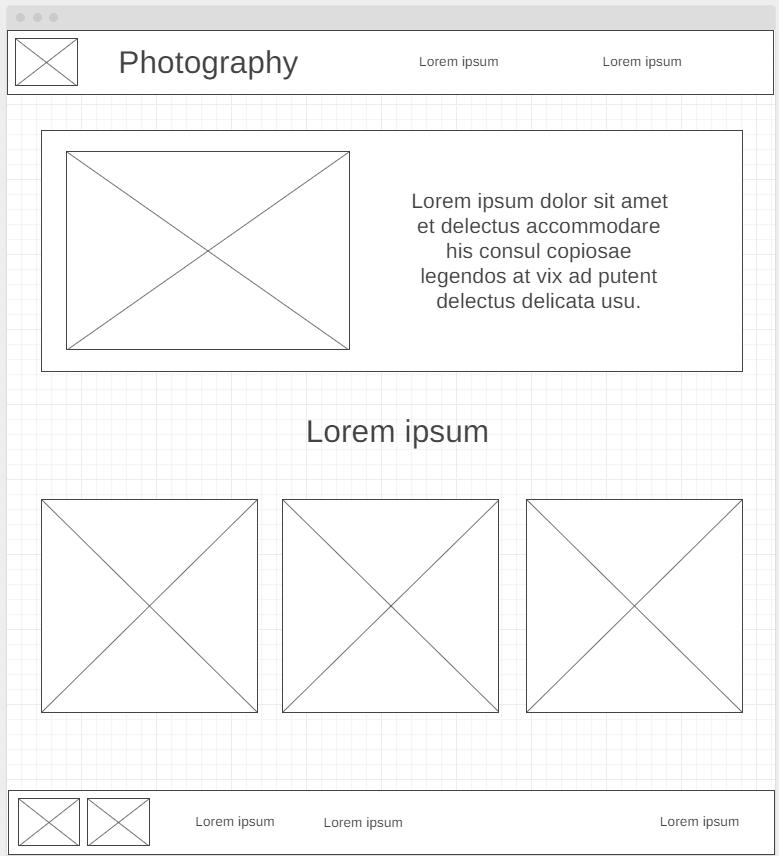
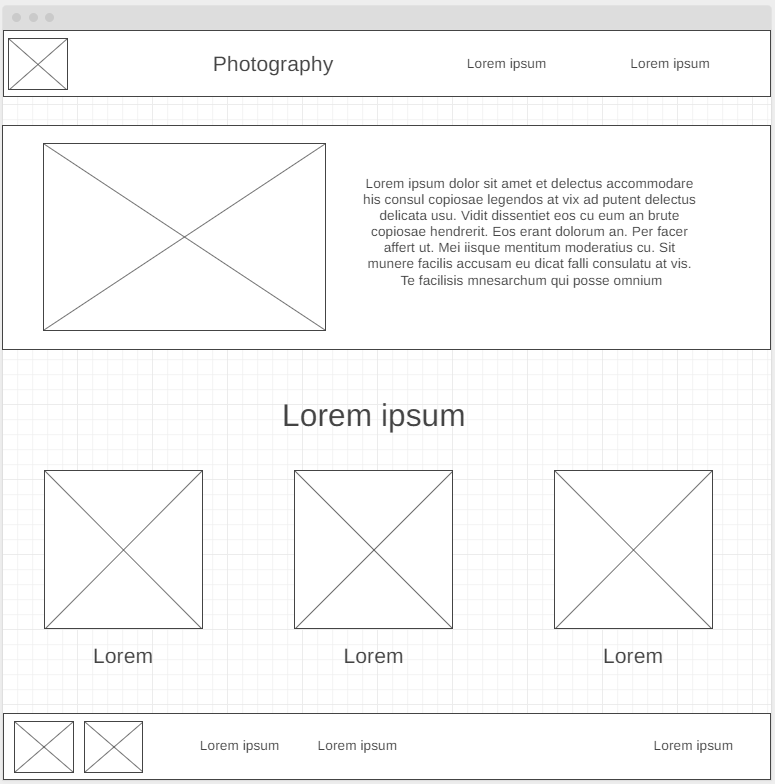
Added

diff --git a/portfolio/photography.html b/portfolio/photography.html
@@ -5,12 +5,17 @@
     <meta name="viewport" content="width=device-width, initial-scale=1.0">
     <title>A.L.B.'s Portfolio | Photography</title>
     <link type="text/css" rel="stylesheet" href="styles/style.css">
+    <style>
+        body {
+            background-color: #117387;
+        }
+    </style>
 </head>
 <body>
     <div id="content">
-        <header>
+        <header> 
             <a id="logo_link" href="index.html">
-             <img class="logo" src="images/logo_pic.png" alt="Logo">
+             <img id="PhotoImg" class="logo" src="images/logo_pic.png" alt="Logo">
             </a>
             <nav>
                 <p>Photography</p>
@@ -21,7 +26,8 @@
 
         <div class="hero-photo">
             <div class="hero-photo-image">
-                <img src="images/photo_one.jpg" alt="Photo One Image">
+                <!-- Trigger the Modal -->
+                <img id="PhotoImg" src="images/photo_one.jpg" alt="Photo One Image">
             </div>
             <div class="hero-photo-text">
                 <p>"Photography, to me, is catching a moment which is passing, and which is 
@@ -39,28 +45,44 @@
 
         <main class="photos-grid">
             <section class="photo-two-card">
-                <img class="card-img" src="images/photo_two.jpg" width="270" height="250" alt="Photo Two Image">
+                <!-- Trigger the Modal -->
+                <img id="PhotoImg" class="card-img" src="images/photo_two.jpg" width="270" height="250" alt="Photo Two Image">
                 <h2>Capture One</h2>
             </section>
 
             <section class="photo-three-card">
-                <img class="card-img" src="images/photo_three.jpg" width="270" height="250" alt="Phto Three Image">
+                <!-- Trigger the Modal -->
+                <img id="PhotoImg" class="card-img" src="images/photo_three.jpg" width="270" height="250" alt="Phto Three Image">
                 <h2>Capture Two</h2>
             </section>
 
             <section class="photo-four-card">
-                <img class="card-img" src="images/photo_four.jpg" width="270" height="250" alt="Photo Four Image">
+                <!-- Trigger the Modal -->
+                <img id="PhotoImg" class="card-img" src="images/photo_four.jpg" width="270" height="250" alt="Photo Four Image">
                 <h2>Capture Three</h2>
             </section>
         </main>
 
+        <!-- The Modal -->
+        <div id="myModal" class="modal">
+
+            <!-- The Close Button -->
+            <span class="close">&times;</span>
+
+            <!-- Modal Content (The Image) -->
+            <img class="modal-content" id="img01">
+
+            <!-- Modal Caption (Image Text) -->
+            <div id="caption"></div>
+         </div>
+
         <footer>
             <div class="social">
                 <a href="https://www.facebook.com/abbybado.021222" title="Facebook Profile" target="_blank">
-                    <img src="images/facebook.png" alt="facebook icon">
+                    <img id="PhotoImg" src="images/facebook.png" alt="facebook icon">
                 </a>
                 <a href="https://instagram.com" title="Instagram Profile" target="_blank">
-                    <img src="images/instagram.png" alt="instagram icon">
+                    <img id="PhotoImg" src="images/instagram.png" alt="instagram icon">
                 </a>     
             </div>
             <div class="links">
@@ -70,6 +92,7 @@
             <p>Copyright 2023 - Abigail Bado</p>
         </footer>
     </div>
+    <script src="js/modal.js"></script>
     
 </body>
 </html>

diff --git a/portfolio/styles/style.css b/portfolio/styles/style.css
@@ -11,6 +11,7 @@ Fonts are separated by a | */
     --accent2-color: #1B2C36;
 
     --white-color: #FFF;
+    --black-color: #000501;
 }
 
 #content {
@@ -69,7 +70,7 @@ nav a:link {
 
 .logo {
     width: 100px;
-    margin: 5px;
+    margin: 10px;
 }
 
 nav h1 {
@@ -207,10 +208,10 @@ footer .links a:hover {
 }
 
 
-/* Page two style */
+/* Page Two (Photography Webpage) style */
 .hero-photo {
     display: flex;
-    background-color: var(--secondary-color);
+    background-color: var(--accent1-color);
     padding: 20px;
     margin-bottom: 50px;
 }
@@ -224,13 +225,13 @@ footer .links a:hover {
     display: grid;
     width: 500px;
     height: 300px;
-    box-shadow: 5px 5px 10px var(--accent1-color);
+    box-shadow: 5px 5px 10px var(--accent2-color);
   }
 
 .hero-photo-text {
     font-family: Comme, Inconsolata, sans-serif;
     font-size: 1.2em;
-    color: var(--white-color);
+    color: var(--black-color);
     text-align: center;
     flex: 2;
     padding-left: 20px;
@@ -261,10 +262,97 @@ footer .links a:hover {
 .card-img {
     border: 7px solid #065767;
     transition: transform .5s;
-    box-shadow: 5px 5px 10px #6f7364;
+    box-shadow: 5px 5px 10px var(--accent1-color);
 }
 
 .card-img:hover {
     opacity: .6;
     transform: scale(1.1);
+}
+
+
+/* --Components: Modal Images--
+    --Style the Image Used to Trigger the Modal-- */
+#PhotoImg {
+    border-radius: 15px;
+    cursor: pointer;
+    transition: 0.3s;
+}
+
+#PhotoImg:hover {
+    opacity: 0.7;
+}
+
+/* The Modal (background) */
+.modal {
+    display: none; /* Hidden by default */
+    position: fixed; /* Stay in place */
+    z-index: 1; /* Sit on top */
+    padding-top: 100px; /* Location of the box */
+    left: 0;
+    top: 0;
+    width: 100%; /* Full width */
+    height: 100%; /* Full height */
+    overflow: auto; /* Enable scroll if needed */
+    background-color: rgb(0,0,0); /* Fallback color */
+    background-color: rgba(0,0,0,0.9); /* Black w/ opacity */
+}
+  
+/* Modal Content (Image) */
+.modal-content {
+    margin: auto;
+    display: block;
+    width: 80%;
+    max-width: 700px;
+}
+  
+/* Caption of Modal Image (Image Text) - Same Width as the Image */
+#caption {
+    margin: auto;
+    display: block;
+    width: 80%;
+    max-width: 700px;
+    text-align: center;
+    color: #ccc;
+    padding: 10px 0;
+    height: 150px;
+}
+  
+/* Add Animation - Zoom in the Modal */
+.modal-content, #caption {
+    animation-name: zoom;
+    animation-duration: 0.6s;
+}
+  
+@keyframes zoom {
+    from {transform:scale(0)}
+    to {transform:scale(1)}
+}
+  
+  /* The Close Button */
+.close {
+    position: absolute;
+    top: 15px;
+    right: 35px;
+    color: #f1f1f1;
+    font-size: 40px;
+    font-weight: bold;
+    transition: 0.3s;
+}
+  
+.close:hover,
+.close:focus {
+    color: #bbb;
+    text-decoration: none;
+    cursor: pointer;
+}
+
+
+
+  
+/* 100% Image Width on Smaller Screens */
+@media only screen and (max-width: 700px) {
+    .modal-content {
+      width: 100%;
+    }
 }

diff --git a/portfolio/index.html b/portfolio/index.html
@@ -10,7 +10,7 @@
     <div id="content">
         <header>
             <a id="logo_link" href="index.html">
-             <img class="logo" src="images/logo_pic.png" alt="Logo">
+             <img id="PhotoImg" class="logo" src="images/logo_pic.png" alt="Logo">
             </a>
             <nav>
                 <p>Home Page</p>
@@ -35,10 +35,10 @@
         <footer>
             <div class="social">
                 <a href="https://www.facebook.com/abbybado.021222" title="Facebook Profile" target="_blank">
-                    <img src="images/facebook.png" alt="facebook icon">
+                    <img id="PhotoImg" src="images/facebook.png" alt="facebook icon">
                 </a>
                 <a href="https://instagram.com" title="Instagram Profile" target="_blank">
-                    <img src="images/instagram.png" alt="instagram icon">
+                    <img id="PhotoImg" src="images/instagram.png" alt="instagram icon">
                 </a>     
             </div>
             <div class="links">

diff --git a/portfolio/designs.html b/portfolio/designs.html
@@ -10,7 +10,7 @@
     <div id="content">
         <header>
             <a id="logo_link" href="index.html">
-             <img class="logo" src="images/logo_pic.png" alt="Logo">
+             <img id="PhotoImg" class="logo" src="images/logo_pic.png" alt="Logo">
             </a>
             <nav>
                 <p>Designs</p>
@@ -39,10 +39,10 @@
         <footer>
             <div class="social">
                 <a href="https://www.facebook.com/abbybado.021222" title="Facebook Profile" target="_blank">
-                    <img src="images/facebook.png" alt="facebook icon">
+                    <img id="PhotoImg" src="images/facebook.png" alt="facebook icon">
                 </a>
                 <a href="https://instagram.com" title="Instagram Profile" target="_blank">
-                    <img src="images/instagram.png" alt="instagram icon">
+                    <img id="PhotoImg" src="images/instagram.png" alt="instagram icon">
                 </a>     
             </div>
             <div class="links">

diff --git a/portfolio/js/modal.js b/portfolio/js/modal.js
@@ -1,0 +1,20 @@
+// Get the modal
+var modal = document.getElementById("myModal");
+
+// Get the image and insert it inside the modal - use its "alt" text as a caption
+var img = document.getElementById("myImg");
+var modalImg = document.getElementById("img01");
+var captionText = document.getElementById("caption");
+img.onclick = function(){
+  modal.style.display = "block";
+  modalImg.src = this.src;
+  captionText.innerHTML = this.alt;
+}
+
+// Get the <span> element that closes the modal
+var span = document.getElementsByClassName("close")[0];
+
+// When the user clicks on <span> (x), close the modal
+span.onclick = function() { 
+  modal.style.display = "none";
+}
